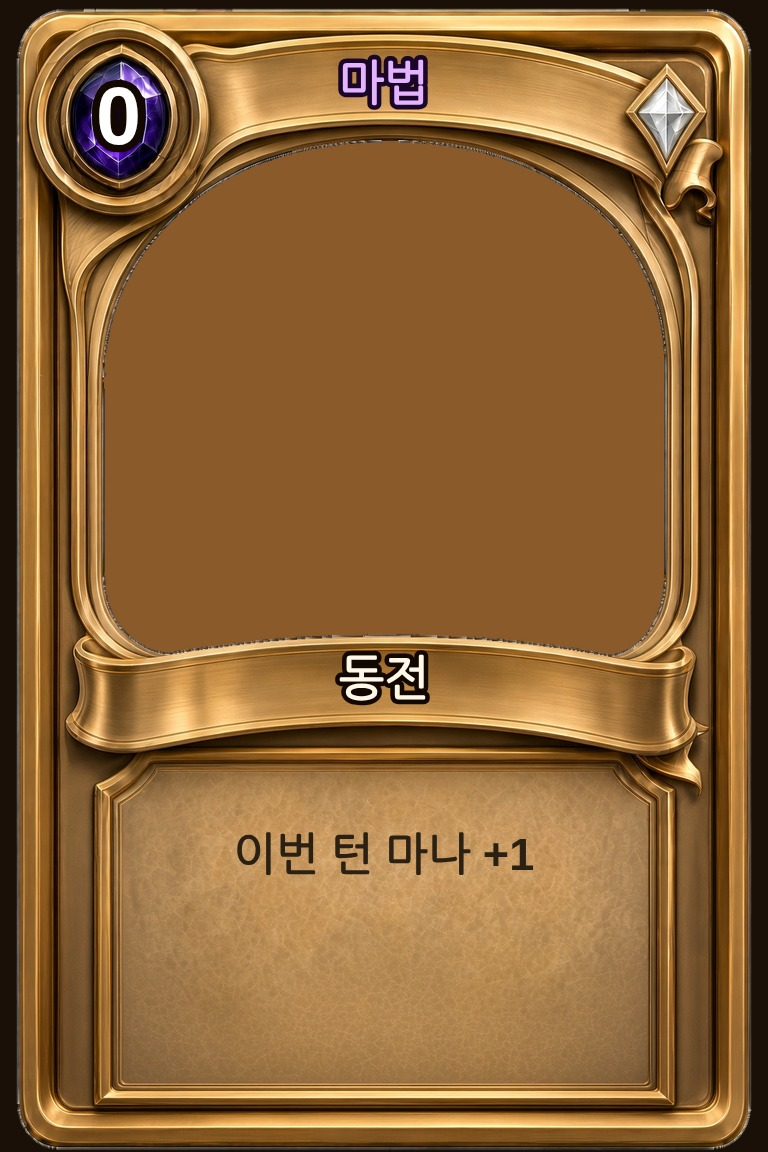
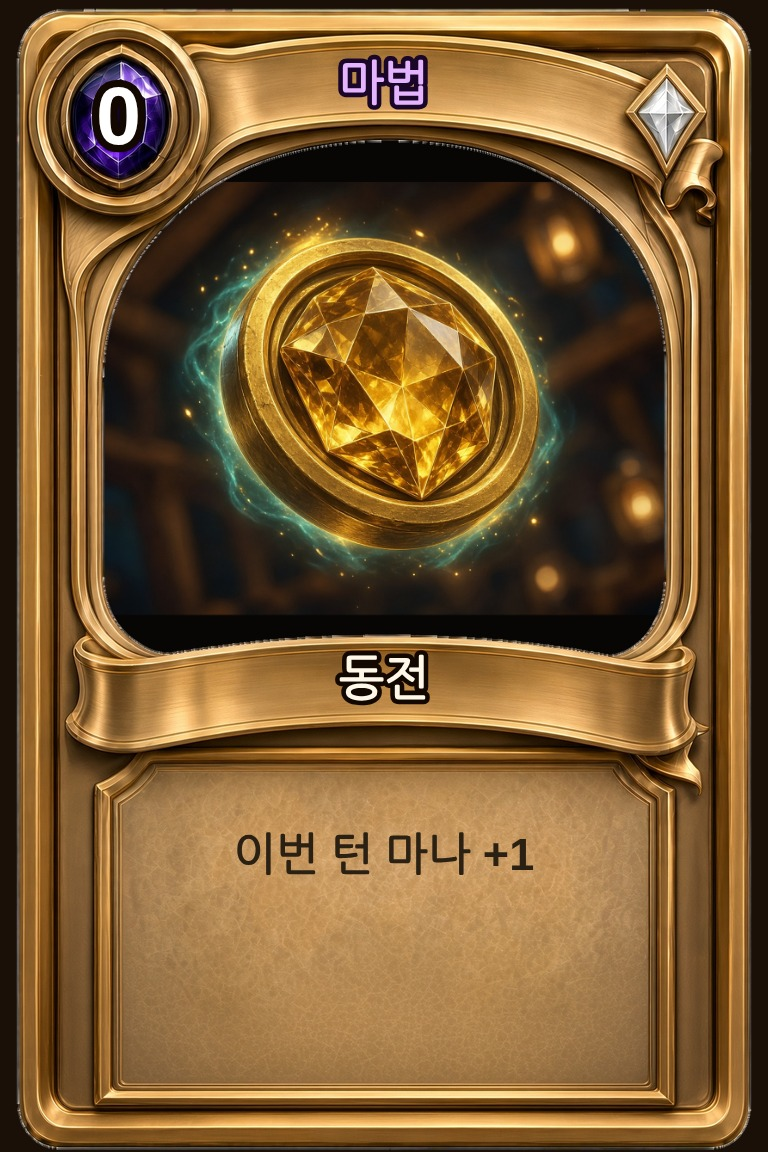
v0.088 coin art + spell face

Changed region(s): [[0.125, 0.125, 0.875, 0.5938]]

diff --git a/fantasy_arena/js/cards-data.js b/fantasy_arena/js/cards-data.js
@@ -530,7 +530,7 @@ function pickFrameUrl(c, tribe) {
   }
   return frameOf(c);
 }
-const CARD_ART = {"a1":"assets/img/art/a1.jpg","a2":"assets/img/art/a2.jpg","a3":"assets/img/art/a3.jpg","a4":"assets/img/art/a4.jpg","a5":"assets/img/art/a5.jpg","a6":"assets/img/art/a6.jpg","a7":"assets/img/art/a7.jpg","a8":"assets/img/art/a8.jpg","a9":"assets/img/art/a9.jpg","a10":"assets/img/art/a10.jpg","a11":"assets/img/art/a11.jpg","a12":"assets/img/art/a12.jpg","a13":"assets/img/art/a13.jpg","a14":"assets/img/art/a14.jpg","a15":"assets/img/art/a15.jpg","a16":"assets/img/art/a16.jpg","a17":"assets/img/art/a17.jpg","a18":"assets/img/art/a18.jpg","a19":"assets/img/art/a19.jpg","a20":"assets/img/art/a20.jpg","a21":"assets/img/art/a21.jpg","a22":"assets/img/art/a22.jpg","a23":"assets/img/art/a23.jpg","a24":"assets/img/art/a24.jpg","a25":"assets/img/art/a25.jpg","a26":"assets/img/art/a26.jpg","a27":"assets/img/art/a27.jpg","a28":"assets/img/art/a28.jpg","as1":"assets/img/art/as1.jpg","as2":"assets/img/art/as2.jpg","as3":"assets/img/art/as3.jpg","as4":"assets/img/art/as4.jpg","as5":"assets/img/art/as5.jpg","as6":"assets/img/art/as6.jpg","as7":"assets/img/art/as7.jpg","as8":"assets/img/art/as8.jpg","d1":"assets/img/art/d1.jpg","d2":"assets/img/art/d2.jpg","d3":"assets/img/art/d3.jpg","d4":"assets/img/art/d4.jpg","d5":"assets/img/art/d5.jpg","d6":"assets/img/art/d6.jpg","d7":"assets/img/art/d7.jpg","d8":"assets/img/art/d8.jpg","d9":"assets/img/art/d9.jpg","d10":"assets/img/art/d10.jpg","d11":"assets/img/art/d11.jpg","d12":"assets/img/art/d12.jpg","d13":"assets/img/art/d13.jpg","d14":"assets/img/art/d14.jpg","d15":"assets/img/art/d15.jpg","d16":"assets/img/art/d16.jpg","d17":"assets/img/art/d17.jpg","d18":"assets/img/art/d18.jpg","d19":"assets/img/art/d19.jpg","d20":"assets/img/art/d20.jpg","d21":"assets/img/art/d21.jpg","d22":"assets/img/art/d22.jpg","d23":"assets/img/art/d23.jpg","d24":"assets/img/art/d24.jpg","d25":"assets/img/art/d25.jpg","d26":"assets/img/art/d26.jpg","d27":"assets/img/art/d27.jpg","d28":"assets/img/art/d28.jpg","ds1":"assets/img/art/ds1.jpg","ds2":"assets/img/art/ds2.jpg","ds3":"assets/img/art/ds3.jpg","ds4":"assets/img/art/ds4.jpg","ds5":"assets/img/art/ds5.jpg","ds6":"assets/img/art/ds6.jpg","ds7":"assets/img/art/ds7.jpg","ds8":"assets/img/art/ds8.jpg","e1":"assets/img/art/e1.jpg","e2":"assets/img/art/e2.jpg","e3":"assets/img/art/e3.jpg","e4":"assets/img/art/e4.jpg","e5":"assets/img/art/e5.jpg","e6":"assets/img/art/e6.jpg","e7":"assets/img/art/e7.jpg","e8":"assets/img/art/e8.jpg","e9":"assets/img/art/e9.jpg","e10":"assets/img/art/e10.jpg","e11":"assets/img/art/e11.jpg","e12":"assets/img/art/e12.jpg","e13":"assets/img/art/e13.jpg","e14":"assets/img/art/e14.jpg","e15":"assets/img/art/e15.jpg","e16":"assets/img/art/e16.jpg","e17":"assets/img/art/e17.jpg","e18":"assets/img/art/e18.jpg","e19":"assets/img/art/e19.jpg","e20":"assets/img/art/e20.jpg","e21":"assets/img/art/e21.jpg","e22":"assets/img/art/e22.jpg","e23":"assets/img/art/e23.jpg","e24":"assets/img/art/e24.jpg","e25":"assets/img/art/e25.jpg","e26":"assets/img/art/e26.jpg","e27":"assets/img/art/e27.jpg","e28":"assets/img/art/e28.jpg","es1":"assets/img/art/es1.jpg","es2":"assets/img/art/es2.jpg","es3":"assets/img/art/es3.jpg","es4":"assets/img/art/es4.jpg","es5":"assets/img/art/es5.jpg","es6":"assets/img/art/es6.jpg","es7":"assets/img/art/es7.jpg","es8":"assets/img/art/es8.jpg","f1":"assets/img/art/f1.jpg","f2":"assets/img/art/f2.jpg","f3":"assets/img/art/f3.jpg","f4":"assets/img/art/f4.jpg","f5":"assets/img/art/f5.jpg","f6":"assets/img/art/f6.jpg","f7":"assets/img/art/f7.jpg","f8":"assets/img/art/f8.jpg","f9":"assets/img/art/f9.jpg","f10":"assets/img/art/f10.jpg","f11":"assets/img/art/f11.jpg","f12":"assets/img/art/f12.jpg","f13":"assets/img/art/f13.jpg","f14":"assets/img/art/f14.jpg","f15":"assets/img/art/f15.jpg","f16":"assets/img/art/f16.jpg","f17":"assets/img/art/f17.jpg","f18":"assets/img/art/f18.jpg","f19":"assets/img/art/f19.jpg","f20":"assets/img/art/f20.jpg","f21":"assets/img/art/f21.jpg","f22":"assets/img/art/f22.jpg","f23":"assets/img/art/f23.jpg","f24":"assets/img/art/f24.jpg","f25":"assets/img/art/f25.jpg","f26":"assets/img/art/f26.jpg","f27":"assets/img/art/f27.jpg","f28":"assets/img/art/f28.jpg","fs1":"assets/img/art/fs1.jpg","fs2":"assets/img/art/fs2.jpg","fs3":"assets/img/art/fs3.jpg","fs4":"assets/img/art/fs4.jpg","fs5":"assets/img/art/fs5.jpg","fs6":"assets/img/art/fs6.jpg","fs7":"assets/img/art/fs7.jpg","fs8":"assets/img/art/fs8.jpg","l1":"assets/img/art/l1.jpg","l2":"assets/img/art/l2.jpg","l3":"assets/img/art/l3.jpg","l4":"assets/img/art/l4.jpg","l5":"assets/img/art/l5.jpg","l6":"assets/img/art/l6.jpg","l7":"assets/img/art/l7.jpg","l8":"assets/img/art/l8.jpg","l9":"assets/img/art/l9.jpg","l10":"assets/img/art/l10.jpg","l11":"assets/img/art/l11.jpg","l12":"assets/img/art/l12.jpg","l13":"assets/img/art/l13.jpg","l14":"assets/img/art/l14.jpg","l15":"assets/img/art/l15.jpg","l16":"assets/img/art/l16.jpg","l17":"assets/img/art/l17.jpg","l18":"assets/img/art/l18.jpg","l19":"assets/img/art/l19.jpg","l20":"assets/img/art/l20.jpg","l21":"assets/img/art/l21.jpg","l22":"assets/img/art/l22.jpg","l23":"assets/img/art/l23.jpg","l24":"assets/img/art/l24.jpg","l25":"assets/img/art/l25.jpg","l26":"assets/img/art/l26.jpg","l27":"assets/img/art/l27.jpg","l28":"assets/img/art/l28.jpg","ls1":"assets/img/art/ls1.jpg","ls2":"assets/img/art/ls2.jpg","ls3":"assets/img/art/ls3.jpg","ls4":"assets/img/art/ls4.jpg","ls5":"assets/img/art/ls5.jpg","ls6":"assets/img/art/ls6.jpg","ls7":"assets/img/art/ls7.jpg","ls8":"assets/img/art/ls8.jpg","n1":"assets/img/art/n1.jpg","n2":"assets/img/art/n2.jpg","n3":"assets/img/art/n3.jpg","n4":"assets/img/art/n4.jpg","n5":"assets/img/art/n5.jpg","n6":"assets/img/art/n6.jpg","n7":"assets/img/art/n7.jpg","n8":"assets/img/art/n8.jpg","n9":"assets/img/art/n9.jpg","n10":"assets/img/art/n10.jpg","n11":"assets/img/art/n11.jpg","n12":"assets/img/art/n12.jpg","n13":"assets/img/art/n13.jpg","n14":"assets/img/art/n14.jpg","n15":"assets/img/art/n15.jpg","n16":"assets/img/art/n16.jpg","n17":"assets/img/art/n17.jpg","n18":"assets/img/art/n18.jpg","n19":"assets/img/art/n19.jpg","n20":"assets/img/art/n20.jpg","n21":"assets/img/art/n21.jpg","n22":"assets/img/art/n22.jpg","n23":"assets/img/art/n23.jpg","n24":"assets/img/art/n24.jpg","n25":"assets/img/art/n25.jpg","n26":"assets/img/art/n26.jpg","n27":"assets/img/art/n27.jpg","n28":"assets/img/art/n28.jpg","ns1":"assets/img/art/ns1.jpg","ns2":"assets/img/art/ns2.jpg","ns3":"assets/img/art/ns3.jpg","ns4":"assets/img/art/ns4.jpg","ns5":"assets/img/art/ns5.jpg","ns6":"assets/img/art/ns6.jpg","ns7":"assets/img/art/ns7.jpg","ns8":"assets/img/art/ns8.jpg"};
+const CARD_ART = {"a1":"assets/img/art/a1.jpg","a2":"assets/img/art/a2.jpg","a3":"assets/img/art/a3.jpg","a4":"assets/img/art/a4.jpg","a5":"assets/img/art/a5.jpg","a6":"assets/img/art/a6.jpg","a7":"assets/img/art/a7.jpg","a8":"assets/img/art/a8.jpg","a9":"assets/img/art/a9.jpg","a10":"assets/img/art/a10.jpg","a11":"assets/img/art/a11.jpg","a12":"assets/img/art/a12.jpg","a13":"assets/img/art/a13.jpg","a14":"assets/img/art/a14.jpg","a15":"assets/img/art/a15.jpg","a16":"assets/img/art/a16.jpg","a17":"assets/img/art/a17.jpg","a18":"assets/img/art/a18.jpg","a19":"assets/img/art/a19.jpg","a20":"assets/img/art/a20.jpg","a21":"assets/img/art/a21.jpg","a22":"assets/img/art/a22.jpg","a23":"assets/img/art/a23.jpg","a24":"assets/img/art/a24.jpg","a25":"assets/img/art/a25.jpg","a26":"assets/img/art/a26.jpg","a27":"assets/img/art/a27.jpg","a28":"assets/img/art/a28.jpg","as1":"assets/img/art/as1.jpg","as2":"assets/img/art/as2.jpg","as3":"assets/img/art/as3.jpg","as4":"assets/img/art/as4.jpg","as5":"assets/img/art/as5.jpg","as6":"assets/img/art/as6.jpg","as7":"assets/img/art/as7.jpg","as8":"assets/img/art/as8.jpg","d1":"assets/img/art/d1.jpg","d2":"assets/img/art/d2.jpg","d3":"assets/img/art/d3.jpg","d4":"assets/img/art/d4.jpg","d5":"assets/img/art/d5.jpg","d6":"assets/img/art/d6.jpg","d7":"assets/img/art/d7.jpg","d8":"assets/img/art/d8.jpg","d9":"assets/img/art/d9.jpg","d10":"assets/img/art/d10.jpg","d11":"assets/img/art/d11.jpg","d12":"assets/img/art/d12.jpg","d13":"assets/img/art/d13.jpg","d14":"assets/img/art/d14.jpg","d15":"assets/img/art/d15.jpg","d16":"assets/img/art/d16.jpg","d17":"assets/img/art/d17.jpg","d18":"assets/img/art/d18.jpg","d19":"assets/img/art/d19.jpg","d20":"assets/img/art/d20.jpg","d21":"assets/img/art/d21.jpg","d22":"assets/img/art/d22.jpg","d23":"assets/img/art/d23.jpg","d24":"assets/img/art/d24.jpg","d25":"assets/img/art/d25.jpg","d26":"assets/img/art/d26.jpg","d27":"assets/img/art/d27.jpg","d28":"assets/img/art/d28.jpg","ds1":"assets/img/art/ds1.jpg","ds2":"assets/img/art/ds2.jpg","ds3":"assets/img/art/ds3.jpg","ds4":"assets/img/art/ds4.jpg","ds5":"assets/img/art/ds5.jpg","ds6":"assets/img/art/ds6.jpg","ds7":"assets/img/art/ds7.jpg","ds8":"assets/img/art/ds8.jpg","e1":"assets/img/art/e1.jpg","e2":"assets/img/art/e2.jpg","e3":"assets/img/art/e3.jpg","e4":"assets/img/art/e4.jpg","e5":"assets/img/art/e5.jpg","e6":"assets/img/art/e6.jpg","e7":"assets/img/art/e7.jpg","e8":"assets/img/art/e8.jpg","e9":"assets/img/art/e9.jpg","e10":"assets/img/art/e10.jpg","e11":"assets/img/art/e11.jpg","e12":"assets/img/art/e12.jpg","e13":"assets/img/art/e13.jpg","e14":"assets/img/art/e14.jpg","e15":"assets/img/art/e15.jpg","e16":"assets/img/art/e16.jpg","e17":"assets/img/art/e17.jpg","e18":"assets/img/art/e18.jpg","e19":"assets/img/art/e19.jpg","e20":"assets/img/art/e20.jpg","e21":"assets/img/art/e21.jpg","e22":"assets/img/art/e22.jpg","e23":"assets/img/art/e23.jpg","e24":"assets/img/art/e24.jpg","e25":"assets/img/art/e25.jpg","e26":"assets/img/art/e26.jpg","e27":"assets/img/art/e27.jpg","e28":"assets/img/art/e28.jpg","es1":"assets/img/art/es1.jpg","es2":"assets/img/art/es2.jpg","es3":"assets/img/art/es3.jpg","es4":"assets/img/art/es4.jpg","es5":"assets/img/art/es5.jpg","es6":"assets/img/art/es6.jpg","es7":"assets/img/art/es7.jpg","es8":"assets/img/art/es8.jpg","f1":"assets/img/art/f1.jpg","f2":"assets/img/art/f2.jpg","f3":"assets/img/art/f3.jpg","f4":"assets/img/art/f4.jpg","f5":"assets/img/art/f5.jpg","f6":"assets/img/art/f6.jpg","f7":"assets/img/art/f7.jpg","f8":"assets/img/art/f8.jpg","f9":"assets/img/art/f9.jpg","f10":"assets/img/art/f10.jpg","f11":"assets/img/art/f11.jpg","f12":"assets/img/art/f12.jpg","f13":"assets/img/art/f13.jpg","f14":"assets/img/art/f14.jpg","f15":"assets/img/art/f15.jpg","f16":"assets/img/art/f16.jpg","f17":"assets/img/art/f17.jpg","f18":"assets/img/art/f18.jpg","f19":"assets/img/art/f19.jpg","f20":"assets/img/art/f20.jpg","f21":"assets/img/art/f21.jpg","f22":"assets/img/art/f22.jpg","f23":"assets/img/art/f23.jpg","f24":"assets/img/art/f24.jpg","f25":"assets/img/art/f25.jpg","f26":"assets/img/art/f26.jpg","f27":"assets/img/art/f27.jpg","f28":"assets/img/art/f28.jpg","fs1":"assets/img/art/fs1.jpg","fs2":"assets/img/art/fs2.jpg","fs3":"assets/img/art/fs3.jpg","fs4":"assets/img/art/fs4.jpg","fs5":"assets/img/art/fs5.jpg","fs6":"assets/img/art/fs6.jpg","fs7":"assets/img/art/fs7.jpg","fs8":"assets/img/art/fs8.jpg","l1":"assets/img/art/l1.jpg","l2":"assets/img/art/l2.jpg","l3":"assets/img/art/l3.jpg","l4":"assets/img/art/l4.jpg","l5":"assets/img/art/l5.jpg","l6":"assets/img/art/l6.jpg","l7":"assets/img/art/l7.jpg","l8":"assets/img/art/l8.jpg","l9":"assets/img/art/l9.jpg","l10":"assets/img/art/l10.jpg","l11":"assets/img/art/l11.jpg","l12":"assets/img/art/l12.jpg","l13":"assets/img/art/l13.jpg","l14":"assets/img/art/l14.jpg","l15":"assets/img/art/l15.jpg","l16":"assets/img/art/l16.jpg","l17":"assets/img/art/l17.jpg","l18":"assets/img/art/l18.jpg","l19":"assets/img/art/l19.jpg","l20":"assets/img/art/l20.jpg","l21":"assets/img/art/l21.jpg","l22":"assets/img/art/l22.jpg","l23":"assets/img/art/l23.jpg","l24":"assets/img/art/l24.jpg","l25":"assets/img/art/l25.jpg","l26":"assets/img/art/l26.jpg","l27":"assets/img/art/l27.jpg","l28":"assets/img/art/l28.jpg","ls1":"assets/img/art/ls1.jpg","ls2":"assets/img/art/ls2.jpg","ls3":"assets/img/art/ls3.jpg","ls4":"assets/img/art/ls4.jpg","ls5":"assets/img/art/ls5.jpg","ls6":"assets/img/art/ls6.jpg","ls7":"assets/img/art/ls7.jpg","ls8":"assets/img/art/ls8.jpg","n1":"assets/img/art/n1.jpg","n2":"assets/img/art/n2.jpg","n3":"assets/img/art/n3.jpg","n4":"assets/img/art/n4.jpg","n5":"assets/img/art/n5.jpg","n6":"assets/img/art/n6.jpg","n7":"assets/img/art/n7.jpg","n8":"assets/img/art/n8.jpg","n9":"assets/img/art/n9.jpg","n10":"assets/img/art/n10.jpg","n11":"assets/img/art/n11.jpg","n12":"assets/img/art/n12.jpg","n13":"assets/img/art/n13.jpg","n14":"assets/img/art/n14.jpg","n15":"assets/img/art/n15.jpg","n16":"assets/img/art/n16.jpg","n17":"assets/img/art/n17.jpg","n18":"assets/img/art/n18.jpg","n19":"assets/img/art/n19.jpg","n20":"assets/img/art/n20.jpg","n21":"assets/img/art/n21.jpg","n22":"assets/img/art/n22.jpg","n23":"assets/img/art/n23.jpg","n24":"assets/img/art/n24.jpg","n25":"assets/img/art/n25.jpg","n26":"assets/img/art/n26.jpg","n27":"assets/img/art/n27.jpg","n28":"assets/img/art/n28.jpg","ns1":"assets/img/art/ns1.jpg","ns2":"assets/img/art/ns2.jpg","ns3":"assets/img/art/ns3.jpg","ns4":"assets/img/art/ns4.jpg","ns5":"assets/img/art/ns5.jpg","ns6":"assets/img/art/ns6.jpg","ns7":"assets/img/art/ns7.jpg","ns8":"assets/img/art/ns8.jpg","coin":"assets/img/art/coin.jpg"};
 
 (function bootstrapCardArt() {
   if (typeof CARD_ART === "undefined" || typeof CARDS === "undefined") return;

diff --git a/fantasy_arena/index.html b/fantasy_arena/index.html
@@ -4,13 +4,13 @@
 <meta charset="UTF-8" />
 <meta name="viewport" content="width=device-width, initial-scale=1" />
 <title>판타지 아레나</title>
-<link rel="stylesheet" href="css/game.css?v=0.087" />
+<link rel="stylesheet" href="css/game.css?v=0.088" />
 </head>
 <body>
 <button class="bgm-btn" id="bgmBtn" title="모험 BGM">♪</button>
 <div id="app">
   <section id="title" class="screen active">
-    <div class="build-ver" id="buildVer">v0.087</div>
+    <div class="build-ver" id="buildVer">v0.088</div>
     <h1 class="title title-logo-wrap"><img class="title-logo" src="assets/img/ui/logo_fantasy_arena.png" alt="Fantasy Arena" /></h1>
     <div class="subtitle">종족을 고르세요 · 오리지널 규칙 축소판</div>
     <div class="title-body">
@@ -190,14 +190,14 @@
 </div>
 
 
-<script src="js/cards-data.js?v=0.087"></script>
-<script src="js/vfx.js?v=0.087"></script>
-<script src="js/bgm.js?v=0.087"></script>
-<script src="js/sfx.js?v=0.087"></script>
-<script src="js/settings.js?v=0.087"></script>
-<script src="js/render.js?v=0.087"></script>
-<script src="js/combat.js?v=0.087"></script>
-<script src="js/spell-fx.js?v=0.087"></script>
-<script src="js/game.js?v=0.087"></script>
+<script src="js/cards-data.js?v=0.088"></script>
+<script src="js/vfx.js?v=0.088"></script>
+<script src="js/bgm.js?v=0.088"></script>
+<script src="js/sfx.js?v=0.088"></script>
+<script src="js/settings.js?v=0.088"></script>
+<script src="js/render.js?v=0.088"></script>
+<script src="js/combat.js?v=0.088"></script>
+<script src="js/spell-fx.js?v=0.088"></script>
+<script src="js/game.js?v=0.088"></script>
 </body>
 </html>

diff --git a/index.html b/index.html
@@ -2,11 +2,11 @@
 <html lang="ko">
 <head>
   <meta charset="utf-8" />
-  <meta http-equiv="refresh" content="0; url=fantasy_arena/?v=0.087" />
+  <meta http-equiv="refresh" content="0; url=fantasy_arena/?v=0.088" />
   <title>Fantasy Arena</title>
-  <script>location.replace("fantasy_arena/?v=0.087");</script>
+  <script>location.replace("fantasy_arena/?v=0.088");</script>
 </head>
 <body>
-  <p><a href="fantasy_arena/?v=0.087">판타지 아레나 열기 (v0.087)</a></p>
+  <p><a href="fantasy_arena/?v=0.088">판타지 아레나 열기 (v0.088)</a></p>
 </body>
 </html>

diff --git a/fantasy_arena/js/game.js b/fantasy_arena/js/game.js
@@ -1,4 +1,4 @@
-const GAME_VERSION = "0.087";
+const GAME_VERSION = "0.088";
 window.GAME_VERSION = GAME_VERSION;
 
 function uid() { return Math.random().toString(36).slice(2, 9); }
